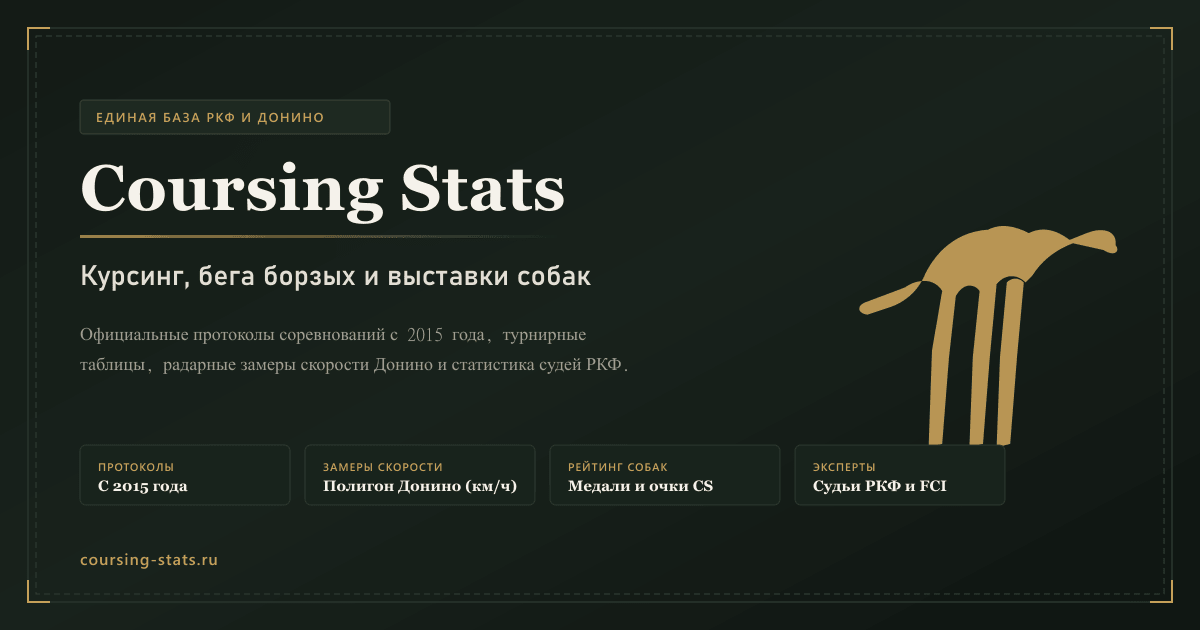
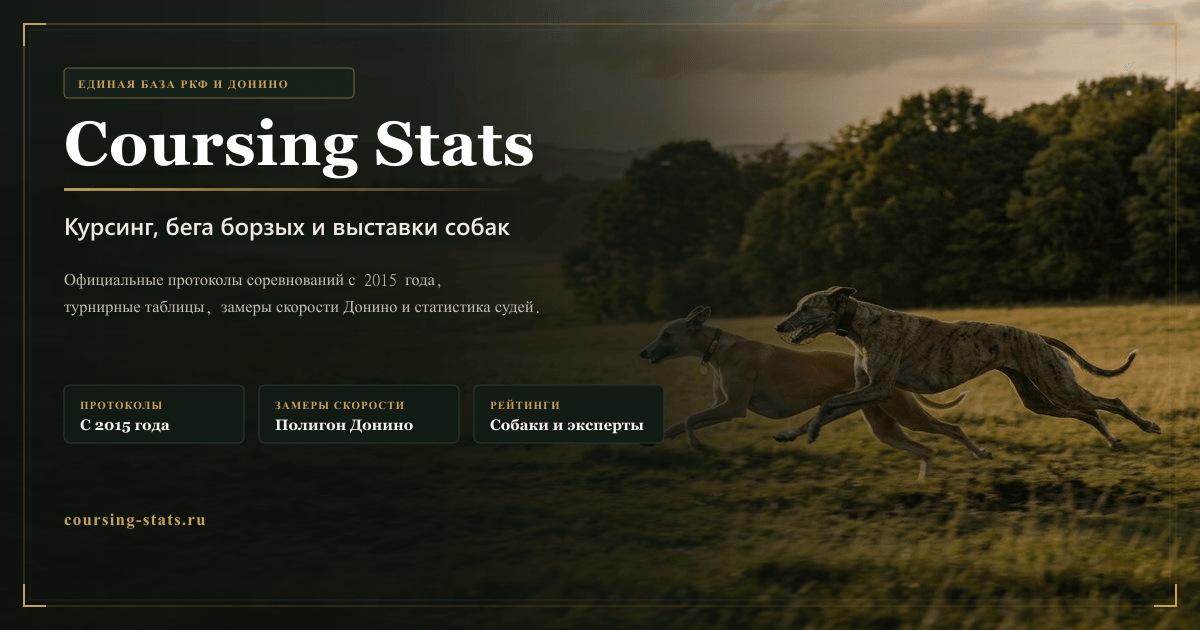
feat(seo): update og-image generator with whippet photo composite and clean up raw assets

diff --git a/backend/scripts/seo/generate-og-image.ts b/backend/scripts/seo/generate-og-image.ts
@@ -5,135 +5,149 @@ import sharp from 'sharp'
 
 const __dirname = path.dirname(fileURLToPath(import.meta.url))
 const ROOT = path.resolve(__dirname, '../../..')
+const PHOTO_SOURCE = path.join(__dirname, 'assets/og-photo-pair.jpg')
 const OUT_FILE = path.join(ROOT, 'frontend/public/og-image.png')
 
 async function generateOgImage(): Promise<void> {
   const width = 1200
   const height = 630
 
-  // Whippet / sighthound silhouette path
-  const dogSilhouettePath = `
-    M 10 42 C 8 43 8 45 11 45.5 L 17 43.5 C 22 42 26 38.5 28 33.5
-    C 32 25.5 38.5 21 46.5 20.5 C 50.5 18.5 54.5 19.5 58.5 21.5
-    C 62.5 19.5 66.5 20.5 70.5 23.5 L 75.5 21.5 C 80.5 19.5 84.5 21 84 25
-    C 85.5 27 83.5 28.5 80.5 26.5 L 71.5 24.5 C 66 26.5 62 30 59.5 34
-    L 57.5 36 C 55 33.5 51.5 33.5 49 36.5 L 47 58 L 45 83.5 L 41 84.5
-    L 42 58 L 44 38.5 C 42 36 39 36.5 37 40 L 35 58 L 33 83.5 L 29 84.5
-    L 30 56 L 33 38.5 C 30.5 34.5 25.5 35 22 37.5 C 18 39 14 40.5 10 42 Z
-    M 57 36 L 55 58 L 53 83.5 L 49 84.5 L 50 58 L 52 36 C 53.5 34.5 55.5 34.5 57 36 Z
-  `
+  if (!fs.existsSync(PHOTO_SOURCE)) {
+    throw new Error(`Source photo not found at ${PHOTO_SOURCE}`)
+  }
 
-  const svg = `
+  // 1. Prepare photo base resized to 1200x630
+  // Position slightly to the right to keep running dogs centered in the right portion
+  const photoBase = await sharp(PHOTO_SOURCE)
+    .resize(width, height, { fit: 'cover', position: sharp.position.right })
+    .toBuffer()
+
+  // 2. SVG overlay with Old Money typography and scrim gradient
+  const svgOverlay = `
   <svg width="${width}" height="${height}" viewBox="0 0 ${width} ${height}" xmlns="http://www.w3.org/2000/svg">
     <defs>
-      <linearGradient id="bg-grad" x1="0%" y1="0%" x2="100%" y2="100%">
-        <stop offset="0%" stop-color="#141a16" />
-        <stop offset="50%" stop-color="#18221c" />
-        <stop offset="100%" stop-color="#0f1411" />
+      <!-- Deep dark scrim fading smoothly across width so dogs stay visible on the right -->
+      <linearGradient id="scrim" x1="0%" y1="0%" x2="100%" y2="0%">
+        <stop offset="0%" stop-color="#0c120e" stop-opacity="0.97" />
+        <stop offset="35%" stop-color="#0c120e" stop-opacity="0.92" />
+        <stop offset="55%" stop-color="#0c120e" stop-opacity="0.75" />
+        <stop offset="72%" stop-color="#0c120e" stop-opacity="0.32" />
+        <stop offset="90%" stop-color="#0c120e" stop-opacity="0.08" />
+        <stop offset="100%" stop-color="#0c120e" stop-opacity="0.0" />
       </linearGradient>
 
-      <linearGradient id="gold-grad" x1="0%" y1="0%" x2="100%" y2="0%">
-        <stop offset="0%" stop-color="#c5a059" />
-        <stop offset="50%" stop-color="#e2c887" />
-        <stop offset="100%" stop-color="#a8843c" />
+      <!-- Bottom subtle gradient to ground the stats chips -->
+      <linearGradient id="bottom-scrim" x1="0%" y1="0%" x2="0%" y2="100%">
+        <stop offset="0%" stop-color="#0c120e" stop-opacity="0.0" />
+        <stop offset="100%" stop-color="#0c120e" stop-opacity="0.5" />
       </linearGradient>
 
       <linearGradient id="accent-line" x1="0%" y1="0%" x2="100%" y2="0%">
-        <stop offset="0%" stop-color="#c5a059" stop-opacity="0.8" />
+        <stop offset="0%" stop-color="#c5a059" stop-opacity="0.95" />
+        <stop offset="70%" stop-color="#c5a059" stop-opacity="0.4" />
         <stop offset="100%" stop-color="#c5a059" stop-opacity="0" />
+      </linearGradient>
+
+      <!-- Golden gradient for subtle accents -->
+      <linearGradient id="gold-border" x1="0%" y1="0%" x2="100%" y2="100%">
+        <stop offset="0%" stop-color="#c5a059" stop-opacity="0.55" />
+        <stop offset="100%" stop-color="#8a6c31" stop-opacity="0.25" />
       </linearGradient>
     </defs>
 
-    <!-- Background -->
-    <rect width="${width}" height="${height}" fill="url(#bg-grad)" />
+    <!-- Scrim layers -->
+    <rect width="${width}" height="${height}" fill="url(#scrim)" />
+    <rect width="${width}" height="${height}" fill="url(#bottom-scrim)" />
 
-    <!-- Framing borders (Old Money double hairline) -->
-    <rect x="28" y="28" width="${width - 56}" height="${height - 56}" fill="none" stroke="#2b362e" stroke-width="1.5" />
-    <rect x="36" y="36" width="${width - 72}" height="${height - 72}" fill="none" stroke="#3d4c41" stroke-width="0.8" stroke-dasharray="6,4" />
+    <!-- Framing borders (Old Money hairline) -->
+    <rect x="24" y="24" width="${width - 48}" height="${height - 48}" fill="none" stroke="url(#gold-border)" stroke-width="1" />
+    <rect x="30" y="30" width="${width - 60}" height="${height - 60}" fill="none" stroke="#ffffff" stroke-width="0.5" stroke-opacity="0.12" />
 
     <!-- Corner Accents -->
-    <path d="M 28 50 L 28 28 L 50 28" fill="none" stroke="#c5a059" stroke-width="2" />
-    <path d="M ${width - 50} 28 L ${width - 28} 28 L ${width - 28} 50" fill="none" stroke="#c5a059" stroke-width="2" />
-    <path d="M 28 ${height - 50} L 28 ${height - 28} L 50 ${height - 28}" fill="none" stroke="#c5a059" stroke-width="2" />
-    <path d="M ${width - 50} ${height - 28} L ${width - 28} ${height - 28} L ${width - 28} ${height - 50}" fill="none" stroke="#c5a059" stroke-width="2" />
-
-    <!-- Sighthound Silhouette in Golden Amber -->
-    <g transform="translate(830, 160) scale(3.4)" fill="#c5a059" opacity="0.92">
-      <path d="${dogSilhouettePath}" />
-    </g>
+    <path d="M 24 46 L 24 24 L 46 24" fill="none" stroke="#c5a059" stroke-width="2" />
+    <path d="M ${width - 46} 24 L ${width - 24} 24 L ${width - 24} 46" fill="none" stroke="#c5a059" stroke-width="2" />
+    <path d="M 24 ${height - 46} L 24 ${height - 24} L 46 ${height - 24}" fill="none" stroke="#c5a059" stroke-width="2" />
+    <path d="M ${width - 46} ${height - 24} L ${width - 24} ${height - 24} L ${width - 24} ${height - 46}" fill="none" stroke="#c5a059" stroke-width="2" />
 
     <!-- Top Badge -->
-    <g transform="translate(80, 100)">
-      <rect x="0" y="0" width="310" height="34" rx="4" fill="#1e2921" stroke="#36493c" stroke-width="1" />
-      <text x="16" y="22" font-family="system-ui, -apple-system, sans-serif" font-size="13" font-weight="600" fill="#c5a059" letter-spacing="1.5">
+    <g transform="translate(64, 68)">
+      <rect x="0" y="0" width="290" height="30" rx="4" fill="#18231c" fill-opacity="0.9" stroke="#c5a059" stroke-width="0.9" stroke-opacity="0.6" />
+      <text x="14" y="20" font-family="system-ui, -apple-system, sans-serif" font-size="11.5" font-weight="700" fill="#c5a059" letter-spacing="1.4">
         ЕДИНАЯ БАЗА РКФ И ДОНИНО
       </text>
     </g>
 
     <!-- Main Title: Coursing Stats -->
-    <text x="80" y="210" font-family="Georgia, 'Times New Roman', serif" font-size="64" font-weight="700" fill="#f5f2eb" letter-spacing="0.5">
+    <text x="64" y="165" font-family="Georgia, 'Times New Roman', serif" font-size="62" font-weight="700" fill="#ffffff" letter-spacing="0.5">
       Coursing Stats
     </text>
 
     <!-- Gold Accent Rule -->
-    <rect x="80" y="235" width="480" height="3" fill="url(#accent-line)" />
+    <rect x="64" y="188" width="460" height="3" fill="url(#accent-line)" />
 
-    <!-- Subtitle: Описание -->
-    <text x="80" y="285" font-family="system-ui, -apple-system, sans-serif" font-size="28" font-weight="500" fill="#e3ded3">
+    <!-- Subtitle -->
+    <text x="64" y="235" font-family="system-ui, -apple-system, sans-serif" font-size="24" font-weight="600" fill="#f0ebe1">
       Курсинг, бега борзых и выставки собак
     </text>
 
     <!-- Description Paragraph -->
-    <text x="80" y="340" font-family="system-ui, -apple-system, sans-serif" font-size="18" fill="#a39d8f">
-      Официальные протоколы соревнований с 2015 года, турнирные
+    <text x="64" y="285" font-family="system-ui, -apple-system, sans-serif" font-size="16.5" fill="#c4beaf">
+      Официальные протоколы соревнований с 2015 года,
     </text>
-    <text x="80" y="370" font-family="system-ui, -apple-system, sans-serif" font-size="18" fill="#a39d8f">
-      таблицы, радарные замеры скорости Донино и статистика судей РКФ.
+    <text x="64" y="312" font-family="system-ui, -apple-system, sans-serif" font-size="16.5" fill="#c4beaf">
+      турнирные таблицы, замеры скорости Донино и статистика судей.
     </text>
 
     <!-- Feature Pillars (Chips at bottom) -->
-    <g transform="translate(80, 445)">
+    <g transform="translate(64, 385)">
       <!-- Pillar 1 -->
       <g transform="translate(0, 0)">
-        <rect width="210" height="60" rx="6" fill="#18231c" stroke="#2c3a2f" stroke-width="1" />
-        <text x="18" y="26" font-family="system-ui, sans-serif" font-size="11" font-weight="600" fill="#c5a059" letter-spacing="1">ПРОТОКОЛЫ</text>
-        <text x="18" y="46" font-family="Georgia, serif" font-size="15" font-weight="600" fill="#f5f2eb">С 2015 года</text>
+        <rect width="180" height="58" rx="6" fill="#131c16" fill-opacity="0.92" stroke="#2c3c30" stroke-width="1" />
+        <text x="16" y="24" font-family="system-ui, sans-serif" font-size="11" font-weight="700" fill="#c5a059" letter-spacing="1">ПРОТОКОЛЫ</text>
+        <text x="16" y="45" font-family="Georgia, serif" font-size="15" font-weight="600" fill="#f5f2eb">С 2015 года</text>
       </g>
 
       <!-- Pillar 2 -->
-      <g transform="translate(225, 0)">
-        <rect width="230" height="60" rx="6" fill="#18231c" stroke="#2c3a2f" stroke-width="1" />
-        <text x="18" y="26" font-family="system-ui, sans-serif" font-size="11" font-weight="600" fill="#c5a059" letter-spacing="1">ЗАМЕРЫ СКОРОСТИ</text>
-        <text x="18" y="46" font-family="Georgia, serif" font-size="15" font-weight="600" fill="#f5f2eb">Полигон Донино (км/ч)</text>
+      <g transform="translate(195, 0)">
+        <rect width="200" height="58" rx="6" fill="#131c16" fill-opacity="0.92" stroke="#2c3c30" stroke-width="1" />
+        <text x="16" y="24" font-family="system-ui, sans-serif" font-size="11" font-weight="700" fill="#c5a059" letter-spacing="1">ЗАМЕРЫ СКОРОСТИ</text>
+        <text x="16" y="45" font-family="Georgia, serif" font-size="15" font-weight="600" fill="#f5f2eb">Полигон Донино</text>
       </g>
 
       <!-- Pillar 3 -->
-      <g transform="translate(470, 0)">
-        <rect width="230" height="60" rx="6" fill="#18231c" stroke="#2c3a2f" stroke-width="1" />
-        <text x="18" y="26" font-family="system-ui, sans-serif" font-size="11" font-weight="600" fill="#c5a059" letter-spacing="1">РЕЙТИНГ СОБАК</text>
-        <text x="18" y="46" font-family="Georgia, serif" font-size="15" font-weight="600" fill="#f5f2eb">Медали и очки CS</text>
-      </g>
-
-      <!-- Pillar 4 -->
-      <g transform="translate(715, 0)">
-        <rect width="210" height="60" rx="6" fill="#18231c" stroke="#2c3a2f" stroke-width="1" />
-        <text x="18" y="26" font-family="system-ui, sans-serif" font-size="11" font-weight="600" fill="#c5a059" letter-spacing="1">ЭКСПЕРТЫ</text>
-        <text x="18" y="46" font-family="Georgia, serif" font-size="15" font-weight="600" fill="#f5f2eb">Судьи РКФ и FCI</text>
+      <g transform="translate(410, 0)">
+        <rect width="190" height="58" rx="6" fill="#131c16" fill-opacity="0.92" stroke="#2c3c30" stroke-width="1" />
+        <text x="16" y="24" font-family="system-ui, sans-serif" font-size="11" font-weight="700" fill="#c5a059" letter-spacing="1">РЕЙТИНГИ</text>
+        <text x="16" y="45" font-family="Georgia, serif" font-size="15" font-weight="600" fill="#f5f2eb">Собаки и эксперты</text>
       </g>
     </g>
 
     <!-- Footer URL -->
-    <text x="80" y="565" font-family="system-ui, sans-serif" font-size="16" font-weight="600" fill="#c5a059" letter-spacing="1">
+    <text x="64" y="525" font-family="system-ui, sans-serif" font-size="17" font-weight="700" fill="#c5a059" letter-spacing="1.2">
       coursing-stats.ru
     </text>
   </svg>
   `
 
-  await sharp(Buffer.from(svg))
-    .png({ quality: 95, compressionLevel: 9 })
+  await sharp(photoBase)
+    .composite([
+      {
+        input: Buffer.from(svgOverlay),
+        top: 0,
+        left: 0,
+      },
+    ])
+    .png({ quality: 92, compressionLevel: 9 })
     .toFile(OUT_FILE)
 
-  console.log(`Generated ${OUT_FILE} (${fs.statSync(OUT_FILE).size} bytes)`)
+  // Also sync to frontend/dist/og-image.png if dist exists
+  const distOut = path.join(ROOT, 'frontend/dist/og-image.png')
+  if (fs.existsSync(path.dirname(distOut))) {
+    fs.copyFileSync(OUT_FILE, distOut)
+  }
+
+  const stat = fs.statSync(OUT_FILE)
+  console.log(`Successfully generated ${OUT_FILE} (${stat.size} bytes)`)
 }
 
 generateOgImage().catch((err) => {
